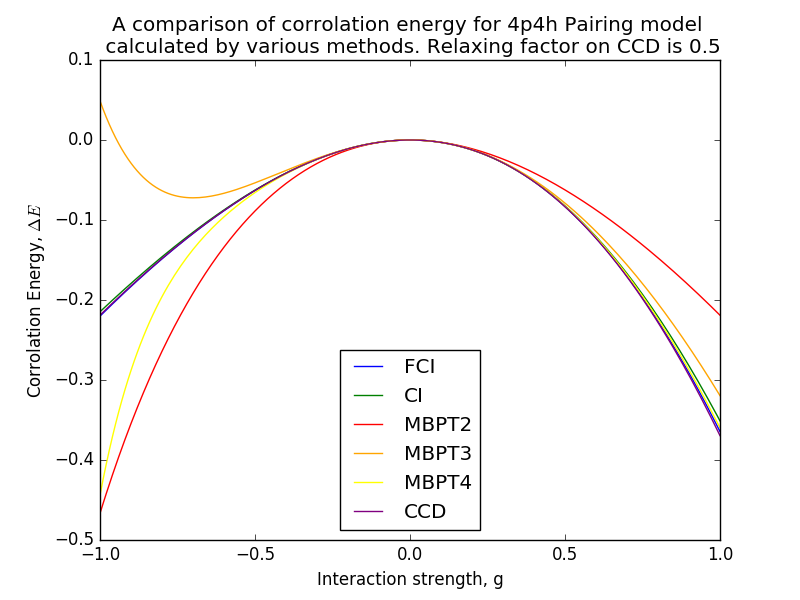
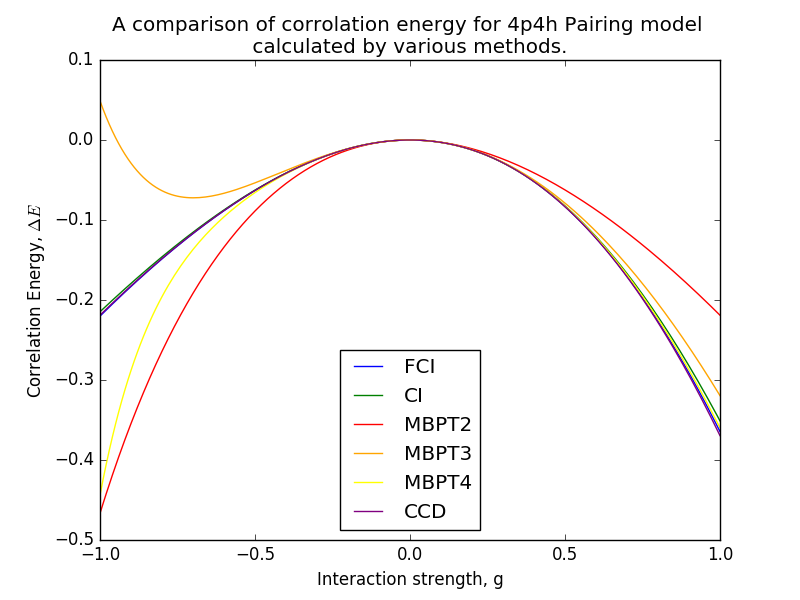
Changed the plot-title.

Changed region(s): [[0.125, 0.06, 0.9062, 0.09], [0.0312, 0.54, 0.0625, 0.57]]

diff --git a/Pairing_Model/PythonScripts/PlotResults.py b/Pairing_Model/PythonScripts/PlotResults.py
@@ -30,7 +30,7 @@ plot(g,array(ReferenceEnergy)+array(MBPT4), color="yellow",label="MBPT4")
 plot(g,array(ReferenceEnergy)+array(CCD),   color="purple",label="CCD")
 
 legend(loc="best")
-title("A comparison of Ground state energy for 4p4h Pairing model \n calculated by various methods. Relaxing factor on CCD is 0.5")
+title("A comparison of Ground state energy for 4p4h Pairing model \n calculated by various methods. ")
 xlabel("Interaction strength, g")
 ylabel(r'Ground state Energy, $\Delta E$')
 savefig("../Results/Figures/Pairing4p4h_CompareE_AllMethods.png")
@@ -47,9 +47,9 @@ plot(g,MBPT4, color="yellow",label="MBPT4")
 plot(g,CCD,   color="purple",label="CCD")
 
 legend(loc="best")
-title("A comparison of corrolation energy for 4p4h Pairing model \n calculated by various methods. Relaxing factor on CCD is 0.5")
+title("A comparison of corrolation energy for 4p4h Pairing model \n calculated by various methods. ")
 xlabel("Interaction strength, g")
-ylabel(r'Corrolation Energy, $\Delta E$')
+ylabel(r'Correlation Energy, $\Delta E$')
 savefig("../Results/Figures/Pairing4p4h_CompareDE_AllMethods.png")
 
 show()
